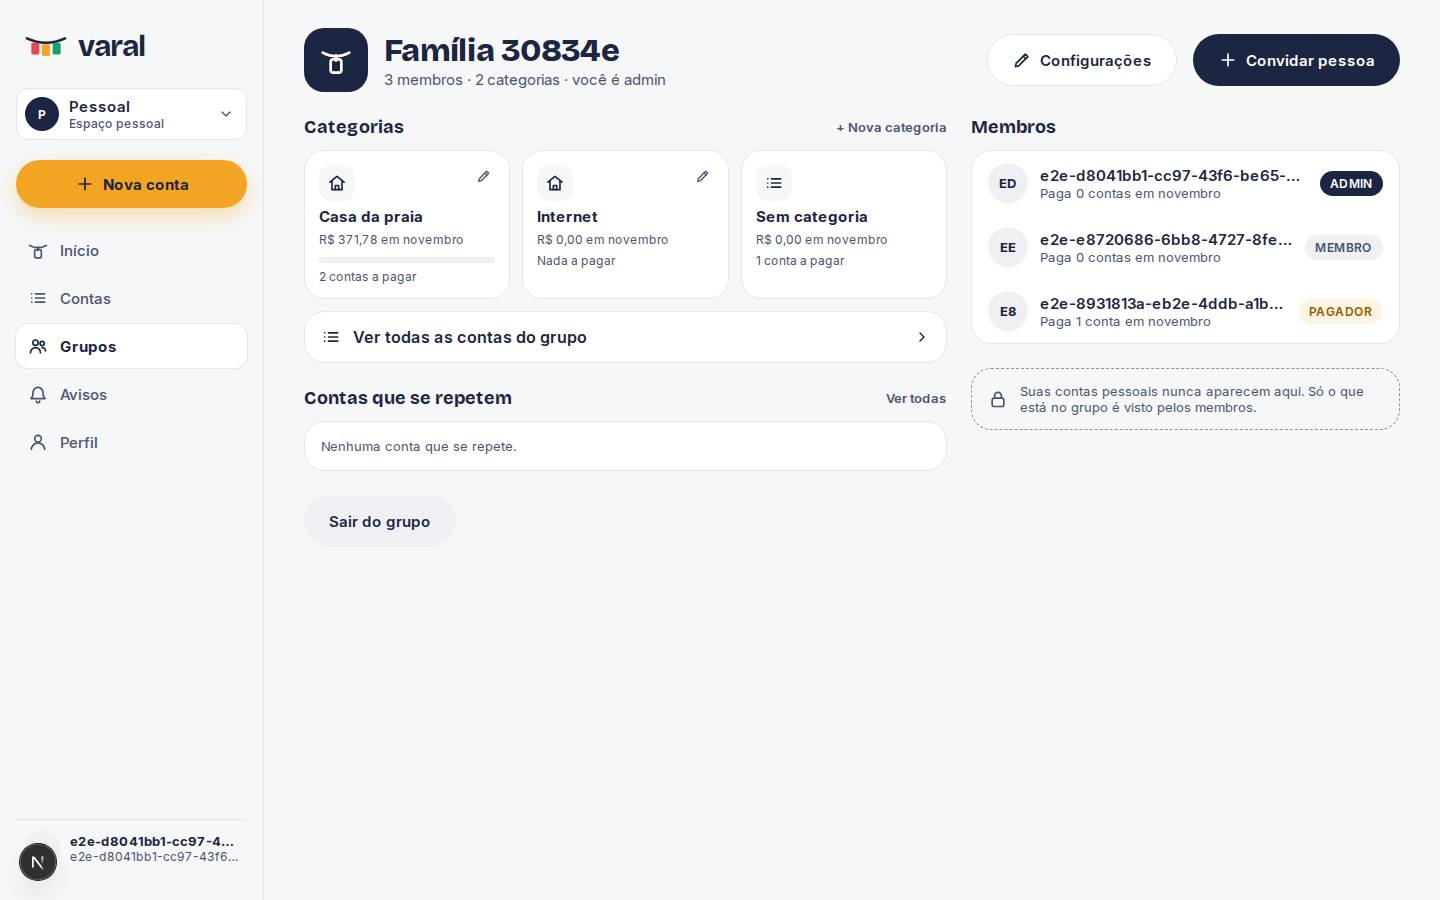
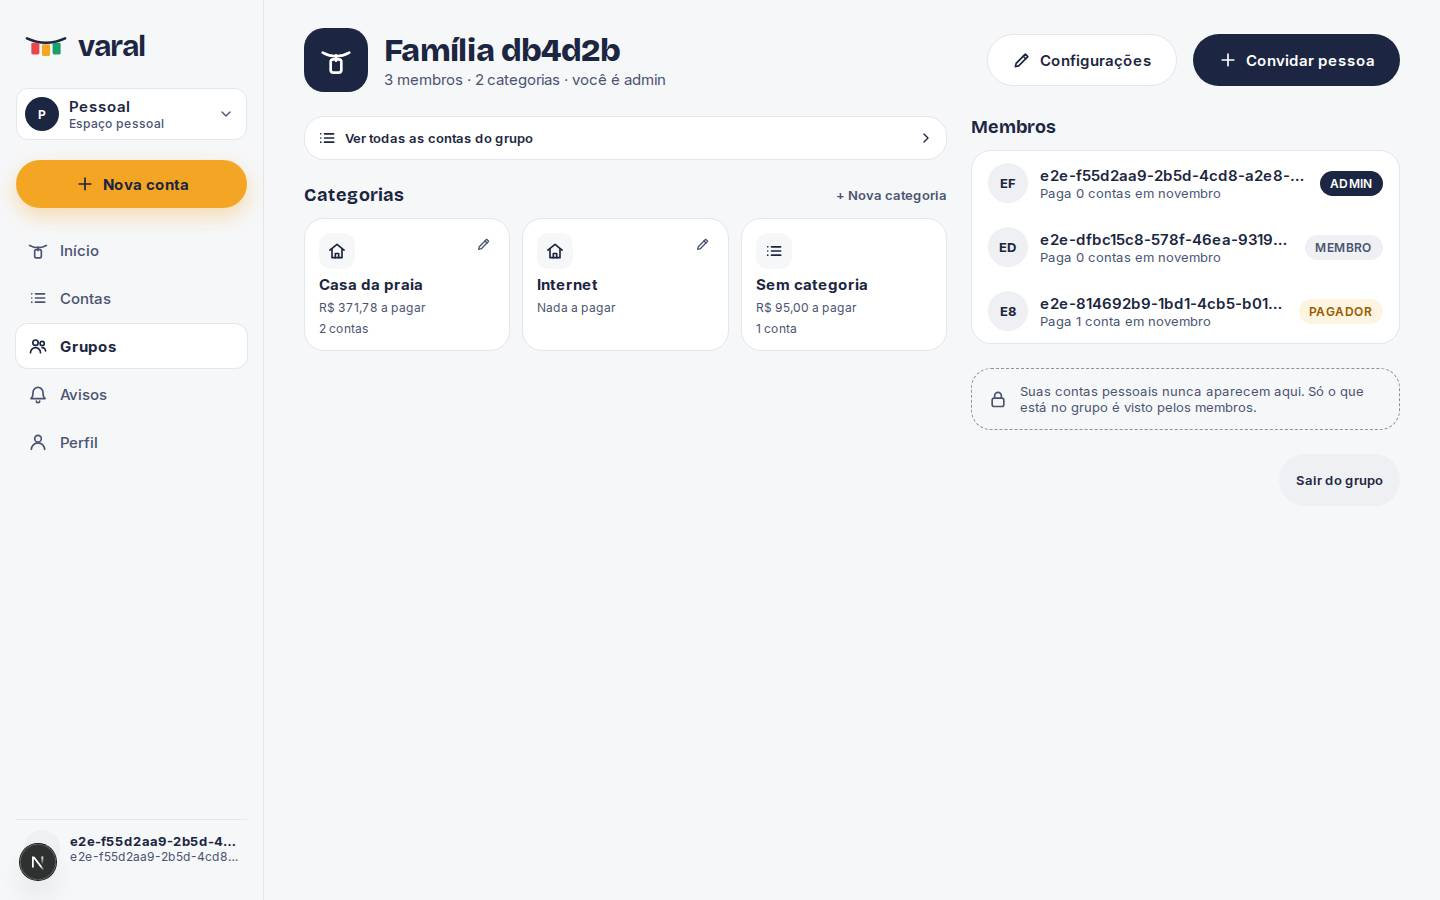
feat(grupos): categorias sem filtro de mês e layout pedido pelo dono
Cards de categoria mostram o que está a pagar em qualquer mês; "Ver todas
as contas do grupo" acima das categorias e menor; "Contas que se repetem"
só aparece quando há alguma; "Sair do grupo" à direita no desktop.

diff --git a/web/src/components/groups/grupo-pagina.test.tsx b/web/src/components/groups/grupo-pagina.test.tsx
@@ -43,7 +43,7 @@ beforeEach(() => {
     if (input === "/api/grupos/g1/convites/" && method === "GET") return json(200, []);
     if (input === "/api/espacos/g1/recorrencias/" && method === "GET") return json(200, []);
     if (input === "/api/espacos/g1/resumo/")
-      return json(200, { mes: "2026-11", total_centavos: 0, qtd: 4, pagas_qtd: 3, vencidas_qtd: 0, vence_qtd: 0, janela_alerta_dias: 3, atencao: [], por_casa: [{ id: "c1", nome: "Casa 1", total_centavos: 147960, qtd: 4, pagas_qtd: 3 }] });
+      return json(200, { mes: "2026-11", total_centavos: 0, qtd: 4, pagas_qtd: 3, vencidas_qtd: 0, vence_qtd: 0, janela_alerta_dias: 3, atencao: [], por_casa: [{ id: "c1", nome: "Casa 1", total_centavos: 0, qtd: 4, pagas_qtd: 3, abertas_qtd: 1, abertas_centavos: 147960, abertas_indefinidas_qtd: 0 }] });
     if (input === "/api/grupos/g1/" && method === "PATCH") return json(200, { ...grupo("admin"), ...JSON.parse(String(init!.body)) });
     if (input === "/api/grupos/g1/sair/") return sair(JSON.parse(String(init?.body ?? "{}")));
     if (input === "/api/grupos/g1/convites/" && method === "POST") {
@@ -84,14 +84,18 @@ test("ca11/ca18: admin sees the whole page with management actions; name falls b
   // COR-11: the card opens the category's bills; editing is its own button.
   expect(screen.getByRole("link", { name: /Casa 1/ }).getAttribute("href")).toBe("/grupos/g1/categorias/c1");
   expect(screen.getByRole("button", { name: "Editar Casa 1" })).toBeTruthy();
-  expect(screen.getByRole("link", { name: /Ver todas as contas do grupo/ }).getAttribute("href")).toBe("/contas?espaco=g1");
+  const todas = screen.getByRole("link", { name: /Ver todas as contas do grupo/ });
+  expect(todas.getAttribute("href")).toBe("/contas?espaco=g1");
+  // Owner's request: "Ver todas" comes before the categories.
+  expect(todas.compareDocumentPosition(screen.getByRole("heading", { name: "Categorias" })) & Node.DOCUMENT_POSITION_FOLLOWING).toBeTruthy();
   expect(screen.getByRole("button", { name: /Dev \(você\).*Admin/ })).toBeTruthy();
   expect(screen.getByRole("button", { name: /observador@varal\.local.*Observador/ })).toBeTruthy();
-  // Q07-7: progress counts visible paid accounts in the due month.
-  expect(await screen.findByText("R$ 1.479,60 em novembro")).toBeTruthy();
-  expect(screen.getByText("3 de 4 pagas")).toBeTruthy();
+  // Owner's request: the card shows what is open in every month, not the month's total.
+  expect(await screen.findByText("R$ 1.479,60 a pagar")).toBeTruthy();
+  expect(screen.getByText("1 conta")).toBeTruthy();
   expect(screen.getAllByRole("button", { name: "Configurações" }).length).toBeGreaterThan(0);
-  expect(screen.getByRole("heading", { name: "Contas que se repetem" })).toBeTruthy();
+  // No recurrence: the section is hidden.
+  expect(screen.queryByRole("heading", { name: "Contas que se repetem" })).toBeNull();
   expect(screen.queryByText(/Gerenciar papéis/)).toBeNull();
 });
 
@@ -105,11 +109,12 @@ test("q07-7: a house without visible bills shows zero without a progress bar", a
 
 test("COR-07: bills without category get their own card, even in a group with no categories", async () => {
   detalhe = { status: 200, body: { ...grupo("membro"), casas: [] } };
-  vi.stubGlobal("fetch", vi.fn(async (input: string) => input === "/api/grupos/g1/" ? json(200, detalhe.body) : input === "/api/espacos/g1/resumo/" ? json(200, { mes: "2026-11", total_centavos: 10000, qtd: 1, pagas_qtd: 0, vencidas_qtd: 0, vence_qtd: 0, janela_alerta_dias: 3, atencao: [], por_casa: [{ id: null, nome: "Sem categoria", icone: null, total_centavos: 10000, qtd: 1, pagas_qtd: 0, abertas_qtd: 2, valores_indefinidos_qtd: 0 }] }) : json(200, [])));
+  vi.stubGlobal("fetch", vi.fn(async (input: string) => input === "/api/grupos/g1/" ? json(200, detalhe.body) : input === "/api/espacos/g1/resumo/" ? json(200, { mes: "2026-11", total_centavos: 10000, qtd: 1, pagas_qtd: 0, vencidas_qtd: 0, vence_qtd: 0, janela_alerta_dias: 3, atencao: [], por_casa: [{ id: null, nome: "Sem categoria", icone: null, total_centavos: 10000, qtd: 1, pagas_qtd: 0, abertas_qtd: 2, abertas_centavos: 10000, abertas_indefinidas_qtd: 1, valores_indefinidos_qtd: 0 }] }) : json(200, [])));
   renderPagina();
   const card = await screen.findByRole("link", { name: /Sem categoria/ });
   expect(card.getAttribute("href")).toBe("/grupos/g1/categorias/sem-categoria");
-  expect(card.textContent).toContain("2 contas a pagar");
+  expect(card.textContent).toContain("R$ 100,00 · 1 valor a definir a pagar");
+  expect(card.textContent).toContain("2 contas");
 });
 
 test.each(["membro", "observador"] as const)("ca11: %s sees the page with no management action", async (papel) => {
@@ -270,4 +275,12 @@ test("ca22/rn32: a blocked exit lists the bills, each resolved before Sair resen
     undefined,
     { resolucoes: [{ lancamento: "l1", acao: "acesso", usuarios: ["u9"] }, { lancamento: "l2", acao: "cancelar" }] },
   ]);
+});
+
+test("contas que se repetem aparece quando o grupo tem alguma", async () => {
+  detalhe = { status: 200, body: grupo("membro") };
+  vi.stubGlobal("fetch", vi.fn(async (input: string) => input === "/api/grupos/g1/" ? json(200, detalhe.body) : input === "/api/espacos/g1/recorrencias/" ? json(200, [{ id: "r1", descricao: "Internet", dia_vencimento: 10, valor_tipo: "fixo", valor_centavos: 9990, estado: "ativa" }]) : json(200, { mes: "2026-11", total_centavos: 0, qtd: 0, pagas_qtd: 0, vencidas_qtd: 0, vence_qtd: 0, janela_alerta_dias: 3, atencao: [], por_casa: [] })));
+  renderPagina();
+  expect(await screen.findByRole("heading", { name: "Contas que se repetem" })).toBeTruthy();
+  expect(screen.getByText("Internet")).toBeTruthy();
 });

diff --git a/web/src/components/groups/grupo-pagina.tsx b/web/src/components/groups/grupo-pagina.tsx
@@ -2,6 +2,8 @@
 // RN13, RN21. COR-04/07/11: "Casas" became "Categorias" with an icon; a card opens the category's bills, the
 // pencil edits it (admin), "Sem categoria" appears whenever it holds bills and "Ver todas as contas" lists the
 // whole group. Observers get the same page with no admin action; the payer never gets here (403).
+// Owner's request (18/11/2026, chat): category cards show what is open in every month; "Ver todas" sits above the
+// categories, smaller; "Contas que se repetem" only shows when there is one; "Sair do grupo" goes right on desktop.
 "use client";
 
 import { useConfirmar } from "@/components/ui/confirmar";
@@ -78,16 +80,15 @@ function Conteudo({ grupo }: { grupo: GrupoDetalhe }) {
     setConfigN((n) => n + 1);
     setConfig(true);
   };
-  // Q11/Q12: real month totals per category, only from the bills you see (RN06). COR-07: the "Sem categoria"
-  // line (id null) gets its own card so no part of the total disappears.
+  // Open totals per category from every month, only from the bills you see (RN06). COR-07: the "Sem categoria"
+  // line (id null) gets its own card so no part of the total disappears. Members still count this month.
   const resumo = useResumo(grupo.id);
   const porCasa = new Map(resumo.data?.por_casa.map((c) => [c.id, c]));
   const semCategoria = porCasa.get(null);
   const mes = resumo.data ? nomeMes(resumo.data.mes) : "";
   const legenda = (total?: (typeof resumo.data & object)["por_casa"][number]) => ({
-    caption: resumo.data ? `${total?.valores_indefinidos_qtd ? "Total conhecido: " : ""}${totalConhecido(total?.total_centavos ?? 0, total?.valores_indefinidos_qtd ?? 0)} em ${mes}` : "…",
-    "caption-2": resumo.data ? (total?.abertas_qtd ? `${plural(total.abertas_qtd, "conta", "contas")} a pagar` : total?.qtd ? `${total.pagas_qtd} de ${total.qtd} pagas` : "Nada a pagar") : undefined,
-    progress: total?.qtd ? total.pagas_qtd / total.qtd * 100 : undefined,
+    caption: !resumo.data ? "…" : total?.abertas_qtd ? `${totalConhecido(total.abertas_centavos, total.abertas_indefinidas_qtd)} a pagar` : "Nada a pagar",
+    "caption-2": total?.abertas_qtd ? plural(total.abertas_qtd, "conta", "contas") : undefined,
   });
   const urlCategoria = (id: string) => `/grupos/${encodeURIComponent(grupo.id)}/categorias/${encodeURIComponent(id)}`;
 
@@ -117,6 +118,11 @@ function Conteudo({ grupo }: { grupo: GrupoDetalhe }) {
 
       <div className={styles.body}>
         <div className={styles.colA}>
+          <Link className={`${styles.todas} ${styles.in}`} href={`/contas?espaco=${encodeURIComponent(grupo.id)}`}>
+            <Icon name="contas" size="md" />
+            <span>Ver todas as contas do grupo</span>
+            <Icon name="chevron" size="sm" />
+          </Link>
           <section className={`${styles.in} ${styles.d1}`} aria-labelledby="casas-t">
             <div className={styles.sec}>
               <h2 id="casas-t">Categorias</h2>
@@ -138,16 +144,11 @@ function Conteudo({ grupo }: { grupo: GrupoDetalhe }) {
                 {admin ? "Organize as contas em categorias, como Luz, Internet ou Aluguel." : "Nenhuma categoria ainda."}
               </p>
             )}
-            <Link className={styles.todas} href={`/contas?espaco=${encodeURIComponent(grupo.id)}`}>
-              <Icon name="contas" size="md" />
-              <span>Ver todas as contas do grupo</span>
-              <Icon name="chevron" size="sm" />
-            </Link>
           </section>
-          <section className={`${styles.in} ${styles.d2}`} aria-labelledby="recorrencias-t">
+          {!!modelos.data?.length && <section className={`${styles.in} ${styles.d2}`} aria-labelledby="recorrencias-t">
             <div className={styles.sec}><h2 id="recorrencias-t">Contas que se repetem</h2><button type="button" className={styles.secAction} onClick={() => setRecorrencias(true)}>Ver todas</button></div>
-            <div className={styles.card}>{modelos.data?.length ? modelos.data.slice(0, 5).map((r) => <RecurringRow key={r.id} text={r.descricao} caption={`Dia ${r.dia_vencimento} · ${r.valor_tipo === "fixo" ? "valor fixo" : "valor muda"} · ${estadoRecorrencia(r.estado)}`} vl={r.valor_centavos == null ? "Valor a definir" : reais(r.valor_centavos)} onClick={() => setRecorrencias(r.id)} />) : <p className={styles.empty}>{modelos.isPending ? "Carregando recorrências…" : modelos.error ? "Não foi possível carregar as recorrências." : "Nenhuma conta que se repete."}</p>}</div>
-          </section>
+            <div className={styles.card}>{modelos.data.slice(0, 5).map((r) => <RecurringRow key={r.id} text={r.descricao} caption={`Dia ${r.dia_vencimento} · ${r.valor_tipo === "fixo" ? "valor fixo" : "valor muda"} · ${estadoRecorrencia(r.estado)}`} vl={r.valor_centavos == null ? "Valor a definir" : reais(r.valor_centavos)} onClick={() => setRecorrencias(r.id)} />)}</div>
+          </section>}
         </div>
 
         <div className={styles.colB}>
@@ -203,10 +204,9 @@ function Conteudo({ grupo }: { grupo: GrupoDetalhe }) {
             <Icon name="cadeado" size="md" />
             <span>Suas contas pessoais nunca aparecem aqui. Só o que está no grupo é visto pelos membros.</span>
           </p>
+          <SairDoGrupo grupoId={grupo.id} grupoNome={grupo.nome} />
         </div>
       </div>
-
-      <SairDoGrupo grupoId={grupo.id} grupoNome={grupo.nome} />
       {recorrencias && <RecorrenciasFolha open espacoId={grupo.id} pessoal={false} inicial={recorrencias === true ? undefined : recorrencias} onClose={() => setRecorrencias(false)} />}
 
       {admin && (

diff --git a/web/src/components/groups/grupo.module.css b/web/src/components/groups/grupo.module.css
@@ -112,13 +112,15 @@
   gap: var(--spacing-2);
 }
 
+/* Owner's request: above the categories and smaller than a card. */
 .todas {
   display: flex;
   align-items: center;
-  gap: var(--spacing-3);
-  min-height: 52px;
-  margin-top: var(--spacing-2);
-  padding: 0 var(--spacing-4);
+  gap: var(--spacing-2);
+  min-height: 44px;
+  margin: var(--spacing-4) 0 0;
+  padding: 0 var(--spacing-3);
+  font-size: var(--text-sm);
   border-radius: var(--radius-lg);
   background: var(--color-surface);
   border: 1px solid var(--color-line);
@@ -237,7 +239,7 @@
   align-items: flex-start;
   gap: var(--spacing-2);
   margin-top: var(--spacing-6);
-  padding: 0 var(--spacing-5);
+  padding: 0 var(--spacing-2); /* inside .body, which already pads the page */
 }
 
 .erro {
@@ -430,7 +432,7 @@
   }
 
   .todas {
-    margin-top: var(--spacing-3);
+    margin: 0;
   }
 
   /* COR-08: the same 24px between sections in both columns (colA had none). */
@@ -457,9 +459,17 @@
     font-size: var(--text-sm);
   }
 
+  /* Owner's request: on desktop, leaving sits at the right, smaller. */
   .leave {
     margin-top: 0;
     padding: 0;
+    align-items: flex-end;
+  }
+
+  .sairBotao {
+    min-height: 44px;
+    padding: 0 var(--spacing-4);
+    font-size: var(--text-sm);
   }
 
   .papeis {

diff --git a/web/e2e/grupos.spec.ts b/web/e2e/grupos.spec.ts
@@ -173,12 +173,12 @@ test("ca09/ca11/ca15/ca17 rn01/rn05/rn07 rnf01: admin com ações, membro e obse
       await expect(texto(aba, `4 membros · 1 categoria · você é ${papel}`)).toBeVisible();
       await expect(aba.getByText(admin.email, { exact: true })).toBeVisible();
       await expect(texto(aba, "Nada a pagar")).toBeVisible();
-      // Reading recurring models is available; management remains unavailable.
+      // Management remains unavailable; with no recurrence its section (and "Ver todas") is hidden.
       await expect(botaoConvidar(aba)).toHaveCount(0);
       await expect(visivel(aba, "+ Nova categoria")).toHaveCount(0);
       await expect(aba.locator("main [aria-haspopup=dialog]:visible")).toHaveCount(0);
       await expect(aba.getByRole("heading", { name: "Convites pendentes" })).toHaveCount(0);
-      expect(await aba.locator("main button:visible").allTextContents()).toEqual(["Ver todas", "Sair do grupo"]);
+      expect(await aba.locator("main button:visible").allTextContents()).toEqual(["Sair do grupo"]);
       expect((await api(conta.request, "POST", `/api/grupos/${grupo.id}/convites/`, { papel: "admin" })).status()).toBe(403);
     } finally {
       await aba.context().close();

diff --git a/web/e2e/etapa12.spec.ts b/web/e2e/etapa12.spec.ts
@@ -206,7 +206,9 @@ test("evidências da etapa 12: grupo, categoria, Contas, permissões, Perfil, Av
   await logar(page, admin);
   await page.goto(`/grupos/${grupo.id}`);
   await expect(link(page, /Casa da praia/)).toContainText("R$ 371,78");
-  await expect(texto(page, "Nenhuma conta que se repete.")).toBeVisible();
+  // Owner's request (18/11): no recurrence, no section; "Ver todas as contas" sits above the categories.
+  await expect(page.getByRole("heading", { name: "Contas que se repetem" })).toHaveCount(0);
+  expect((await link(page, /Ver todas as contas do grupo/).boundingBox())!.y).toBeLessThan((await page.getByRole("heading", { name: "Categorias" }).boundingBox())!.y);
   await foto("grupo");
   await visivel(page, "Editar Casa da praia").click();
   await visivel(page.getByRole("dialog", { name: "Editar categoria" }), /^Quem pode fazer o quê/).click();

diff --git a/web/src/components/groups/sair-do-grupo.tsx b/web/src/components/groups/sair-do-grupo.tsx
@@ -75,7 +75,7 @@ export function SairDoGrupo({ grupoId, grupoNome }: { grupoId: string; grupoNome
   return (
     <div className={styles.leave}>
       {confirmacao}
-      <Button tone="ghost" label={sair.isPending && !barrada ? "Saindo…" : "Sair do grupo"} onClick={confirmar} disabled={sair.isPending} />
+      <Button className={styles.sairBotao} tone="ghost" label={sair.isPending && !barrada ? "Saindo…" : "Sair do grupo"} onClick={confirmar} disabled={sair.isPending} />
       {sair.error && !barrada && !orfas(sair.error) && <p className={styles.erro} role="alert">{sair.error.message}</p>}
 
       <Folha

diff --git a/web/src/types/api.ts b/web/src/types/api.ts
@@ -3541,6 +3541,10 @@ export interface components {
             nome: string;
         };
         PorCasa: {
+            /** @description Valor conhecido a pagar, qualquer mês */
+            abertas_centavos: number;
+            /** @description A pagar sem valor, qualquer mês */
+            abertas_indefinidas_qtd: number;
             /** @description A pagar em qualquer mês */
             abertas_qtd: number;
             icone: string | null;

diff --git a/api/apps/lancamentos/views.py b/api/apps/lancamentos/views.py
@@ -427,6 +427,8 @@ class PorCasaSerializer(serializers.Serializer):
     nome = serializers.CharField()
     icone = serializers.CharField(allow_null=True)
     abertas_qtd = serializers.IntegerField(help_text="A pagar em qualquer mês")
+    abertas_centavos = serializers.IntegerField(help_text="Valor conhecido a pagar, qualquer mês")
+    abertas_indefinidas_qtd = serializers.IntegerField(help_text="A pagar sem valor, qualquer mês")
     total_centavos = serializers.IntegerField()
     qtd = serializers.IntegerField()
     pagas_qtd = serializers.IntegerField()
@@ -763,12 +765,18 @@ class ResumoView(APIView):
                     pagas_qtd=Count("pk", filter=Q(status__in=(Status.PAGA, Status.CONFIRMADA))),
                 )
             }
-            abertas = dict(
-                visiveis.filter(status__in=ABERTOS)
+            # The group page shows what is still open in each category, from every month.
+            abertas = {
+                a["subgrupo"]: a
+                for a in visiveis.filter(status__in=ABERTOS)
                 .values("subgrupo")
-                .annotate(n=Count("pk"))
-                .values_list("subgrupo", "n")
-            )
+                .annotate(
+                    abertas_qtd=Count("pk"),
+                    abertas_centavos=Sum("valor_centavos", default=0),
+                    abertas_indefinidas_qtd=Count("pk", filter=Q(valor_centavos__isnull=True)),
+                )
+            }
+            sem_abertas = {"abertas_qtd": 0, "abertas_centavos": 0, "abertas_indefinidas_qtd": 0}
             vazio = {"total_centavos": 0, "qtd": 0, "valores_indefinidos_qtd": 0, "pagas_qtd": 0}
 
             def linha(id_, nome, icone):
@@ -778,7 +786,7 @@ class ResumoView(APIView):
                     "nome": nome,
                     "icone": icone,
                     **numeros_,
-                    "abertas_qtd": abertas.get(id_, 0),
+                    **{k: abertas.get(id_, sem_abertas)[k] for k in sem_abertas},
                 }
 
             por_casa = [

diff --git a/api/tests/test_contas.py b/api/tests/test_contas.py
@@ -535,6 +535,8 @@ def test_d2_cancelada_fora_de_tudo_menos_do_filtro_canceladas(f):
             "nome": "Casa da praia",
             "icone": "casa",
             "abertas_qtd": 1,
+            "abertas_centavos": 1000,
+            "abertas_indefinidas_qtd": 0,
             "total_centavos": 1000,
             "qtd": 1,
             "pagas_qtd": 0,
@@ -623,6 +625,8 @@ def test_rf13_resumo_total_do_mes_atencao_e_por_casa(f):
             "nome": "Casa da praia",
             "icone": "casa",
             "abertas_qtd": 1,
+            "abertas_centavos": 200,
+            "abertas_indefinidas_qtd": 0,
             "total_centavos": 200,
             "qtd": 1,
             "pagas_qtd": 0,
@@ -634,6 +638,9 @@ def test_rf13_resumo_total_do_mes_atencao_e_por_casa(f):
             "nome": "Sem categoria",
             "icone": None,
             "abertas_qtd": 3,
+            # The group page shows what is open in every month: October + November + December.
+            "abertas_centavos": 1000 + 300 + 9999,
+            "abertas_indefinidas_qtd": 0,
             "total_centavos": 300,
             "qtd": 1,
             "pagas_qtd": 0,

diff --git a/docs/etapas/12-correcoes-teste/decisoes.md b/docs/etapas/12-correcoes-teste/decisoes.md
@@ -26,6 +26,15 @@
 | Capturas da etapa em JPEG (qualidade 70) versionadas em [evidencias/](evidencias/), geradas pelo teste "evidências da etapa 12" de `etapa12.spec.ts`. | O handoff pede as capturas na etapa; em JPEG somam ~0,6 MB. As outras etapas seguem em `web/e2e/__screens__` (ignorado). | Apagar a pasta e o teste. |
 | Specs E2E usam `ORIGIN` (`LAB_BASE_URL`) no lugar de `localhost:3000` fixo. | A porta 3000 da máquina estava ocupada por outro projeto; o E2E rodou na 3100. | Voltar o literal. |
 
+## Pedidos do dono depois do fechamento
+
+| Pedido (18/11/2026, chat) | Como ficou |
+| --- | --- |
+| Categorias do grupo sem filtro de mês | Card mostra "R$ X a pagar" e o número de contas abertas de todos os meses; sem barra de progresso. |
+| "Ver todas as contas do grupo" acima das categorias, menor | Link de 44px com texto pequeno, antes da seção Categorias. |
+| "Contas que se repetem" só quando houver | Seção some sem recorrência; criar continua pela nova conta e por Contas. |
+| "Sair do grupo" no desktop à direita, menor | Fim da coluna de Membros, alinhado à direita. No celular, no fim da página. |
+
 ## Perguntas ao dono (abertas)
 
 | ID | Pergunta | Proposta |

diff --git a/docs/PROGRESSO.md b/docs/PROGRESSO.md
@@ -62,6 +62,12 @@ Na continuidade iniciada em 15/11/2026, o dono delegou expressamente ao Codex re
 
 Ordem cronológica inversa.
 
+### 18/11/2026 — Tela do grupo ajustada (pedido do dono no chat)
+
+- Cards de categoria mostram o que está a pagar em qualquer mês (`abertas_centavos` e `abertas_indefinidas_qtd` em `por_casa`), não mais o total do mês. Membros seguem contando o mês.
+- "Ver todas as contas do grupo" sobe para cima das categorias, menor. "Contas que se repetem" só aparece quando há alguma. No desktop, "Sair do grupo" fica à direita, menor.
+- Os frames 10 · Grupo e D04 · Grupo no Doop ainda mostram o layout anterior.
+
 ### 18/11/2026 — Q12-2: nome no cadastro e no Perfil (branch `etapa/12-nome-perfil`)
 
 - Aprovado pelo dono. Cadastro pede "Nome (opcional)"; o Perfil edita o nome no cartão "Seus dados" (`PATCH /api/me/`).
